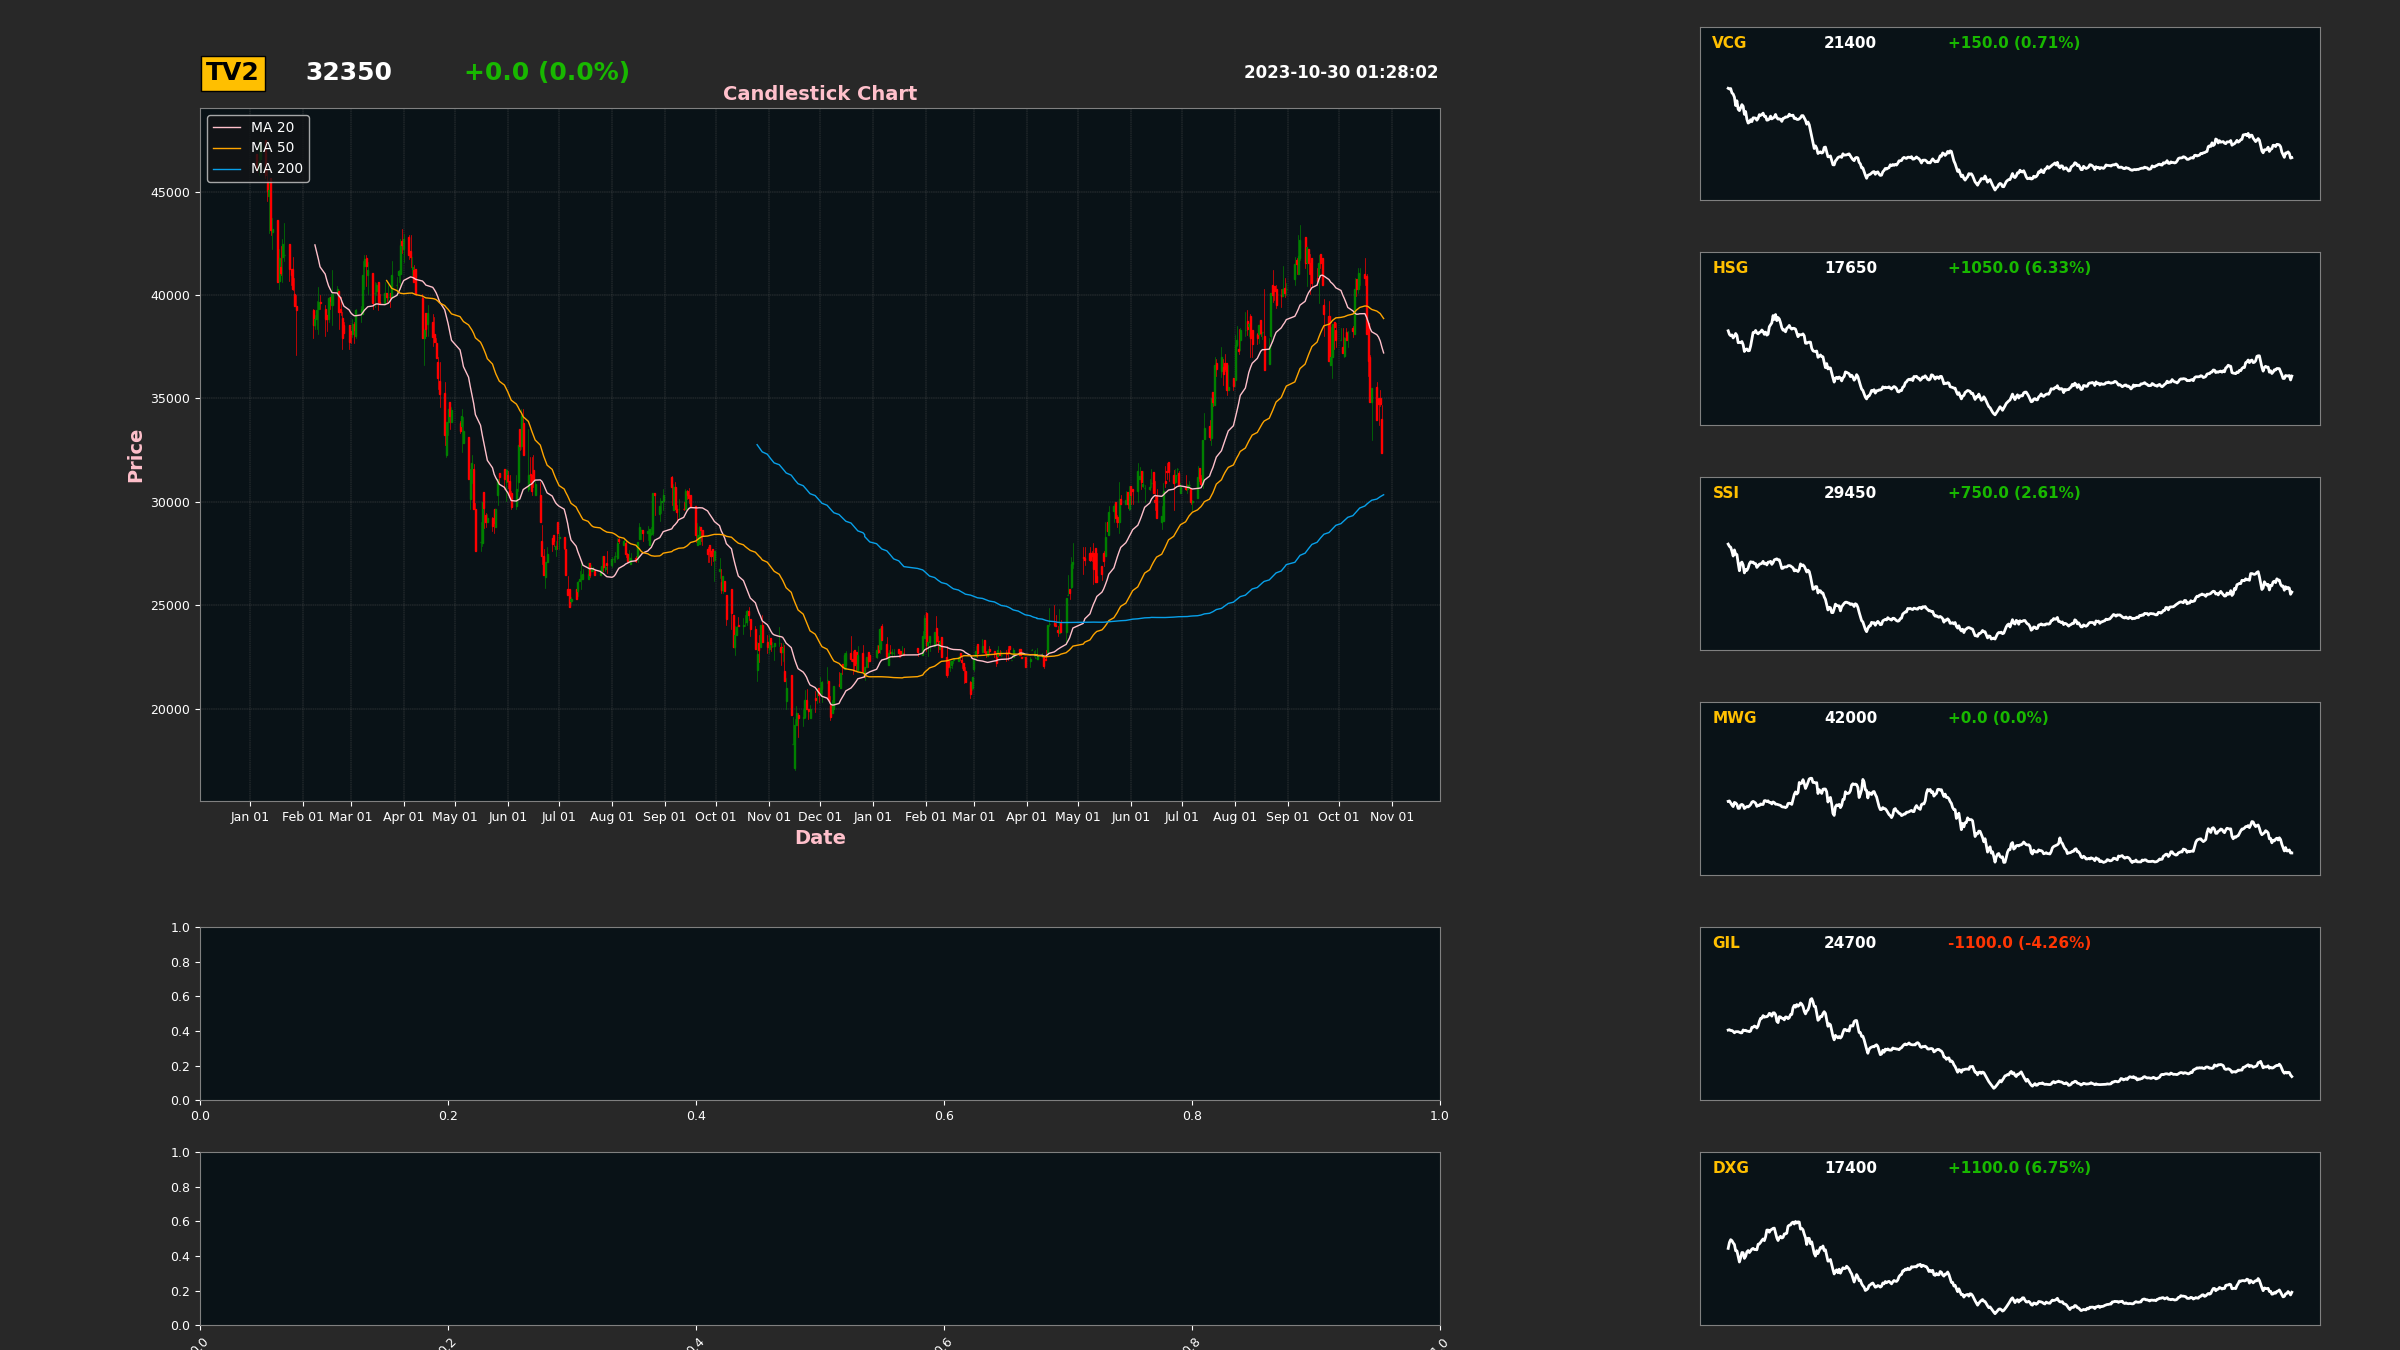
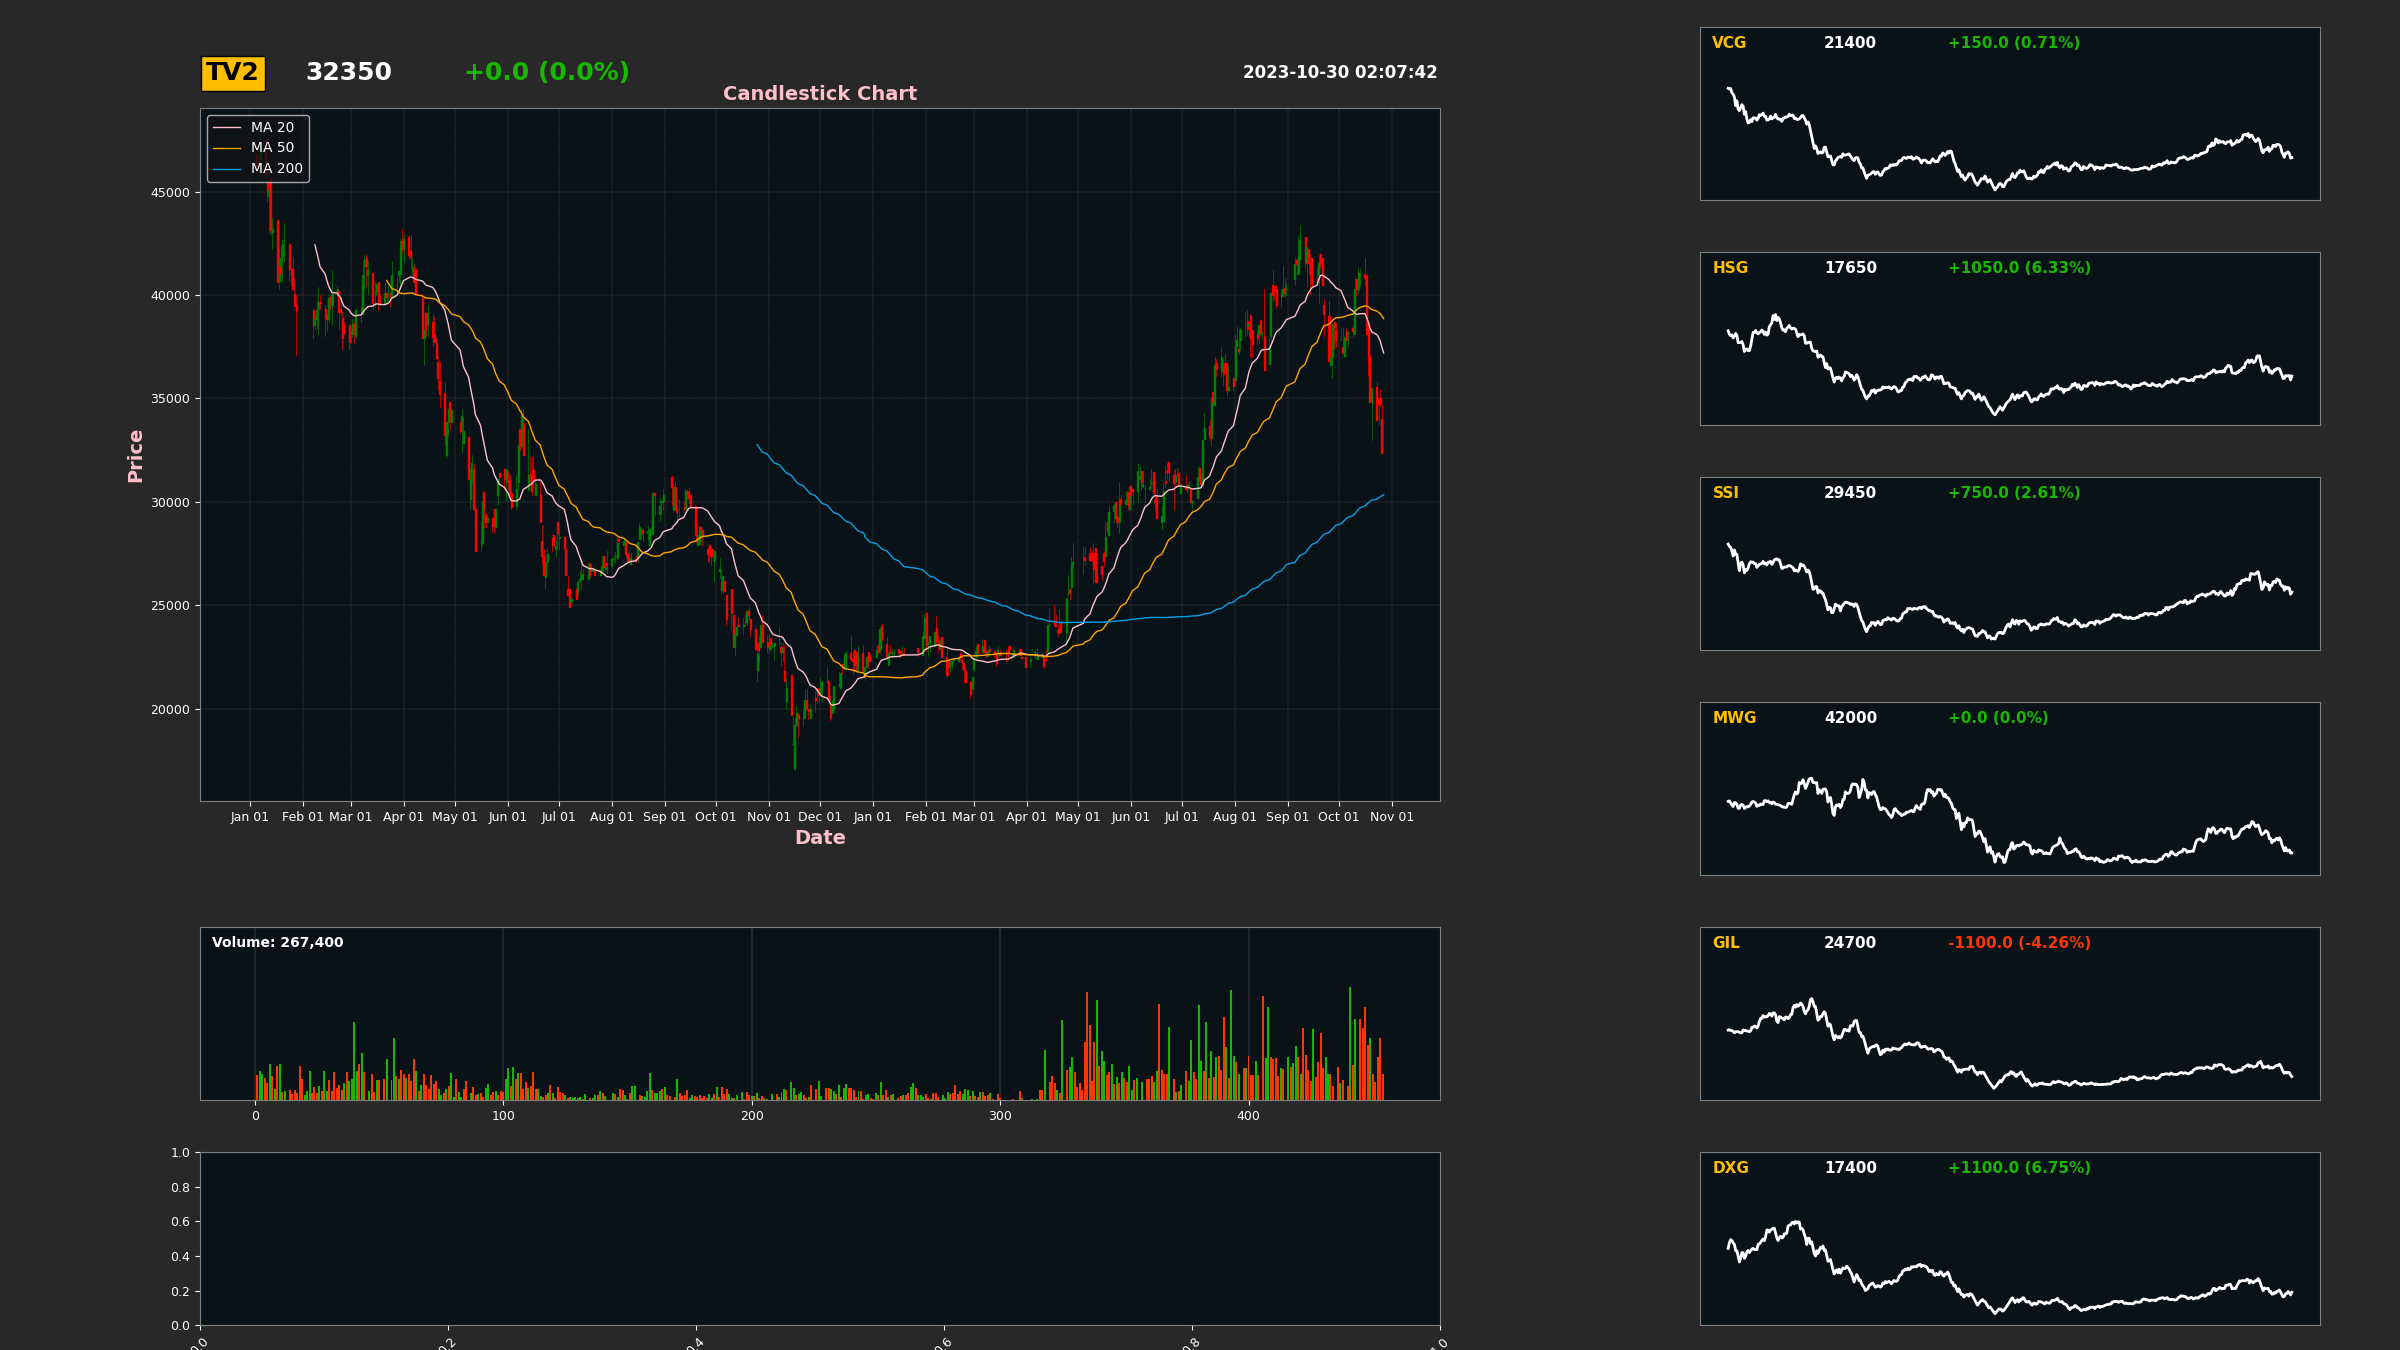
Volume Plot

diff --git a/test.py b/test.py
@@ -235,8 +235,6 @@ def main_plot(file_path, main_stock_code):
     figure_design(ax1)
 ## ------------------------------------- CREATE MAIN STOCK ----------------------------------- ##
 
-figure_design(ax8)
-figure_design(ax9)
 
 
 ## --------------- PLOT MAIN STOCK ------------ ##
@@ -255,6 +253,42 @@ for i in range(6):
     subplot_plot(right_sub_plots[i], right_stocks[i],
                  data, latest_price, latest_change, latest_volume)
 ## ------------------------------------- PLOT SUB STOCKS ----------------------------------- ##
+
+
+## ------------------------------------- VOLUME PLOT ----------------------------------- ##
+ax8.clear()
+figure_design(ax8)
+ax8.axes.yaxis.set_visible(False)
+
+data_ohlc = read_data_ohlc(f'./Data/{stocks[0]}.csv')
+data = data_ohlc[0]
+vol = data_ohlc[-1]
+
+pos = data['open'] - data['close'] < 0
+neg = data['open'] - data['close'] > 0
+# print(pos)
+# print(neg)
+data['x_axis'] = list(range(1, len(data['volume']) + 1))
+# print(data['x_axis'])
+ax8.bar(data['x_axis'][pos], data['volume'][pos], color="#18b800", width=0.8, align='center')
+ax8.bar(data['x_axis'][neg], data['volume'][neg], color="#ff3503", width=0.8, align='center')
+
+ymax = data['volume'].max()
+ystd = data['volume'].std()
+
+if not math.isnan(ymax):
+    ax8.set_ylim([0, ymax + ystd * 3])
+
+ax8.text(0.01, 0.95, 'Volume: ' + "{:,}".format(int(vol)), transform=ax8.transAxes, color='white',
+         fontsize=10, fontweight='bold', 
+         horizontalalignment='left', verticalalignment='top')
+
+ax8.grid(True, color='grey', linestyle='-', which='major', axis='both', linewidth=0.3)
+## ------------------------------------- VOLUME PLOT ----------------------------------- ##
+
+
+
+figure_design(ax9)
 
 
 

diff --git a/trash.py b/trash.py
@@ -1,24 +1,22 @@
-import matplotlib.pyplot as plt
+import pandas as pd
 import numpy as np
-from matplotlib.gridspec import GridSpec
 
-data1 = np.random.rand(10, 10)
-data2 = np.random.rand(10, 10)
+# Tạo một DataFrame với dữ liệu giả định về giá cổ phiếu theo từng ngày
+np.random.seed(0)
+date_range = pd.date_range('2023-10-01', periods=100, freq='D')
+prices = np.random.randint(1, 100, size=100)
+stock_df = pd.DataFrame({'Date': date_range, 'Price': prices})
 
-fig = plt.figure(figsize=(8, 4))
-gs = fig.add_gridspec(1, 2)
+# Đặt cột 'Date' làm chỉ mục cho DataFrame
+stock_df.set_index('Date', inplace=True)
 
-fig_left = fig.add_subfigure(gs[:, 0])
-fig_right = fig.add_subfigure(gs[:, 1])
+# In ra dữ liệu ban đầu
+print("Dữ liệu ban đầu:")
+print(stock_df.head(10))
 
-fig_left.set_facecolor("red")
-ax_left = fig_left.subplots()
-ax_left.set_title("red")
-# img_left = ax_left.imshow(data1, aspect="equal")
+# Resample theo tuần và tính giá trị trung bình hàng tuần
+weekly_resampled = stock_df.resample('W').mean()
 
-fig_right.set_facecolor("blue")
-ax_right = fig_right.subplots()
-ax_right.set_title("blue")
-# img_right = ax_right.imshow(data2, aspect="equal")
-
-plt.show()
+# In ra kết quả resample theo tuần
+print("\nKết quả resample hàng tuần:")
+print(weekly_resampled.head(10))
